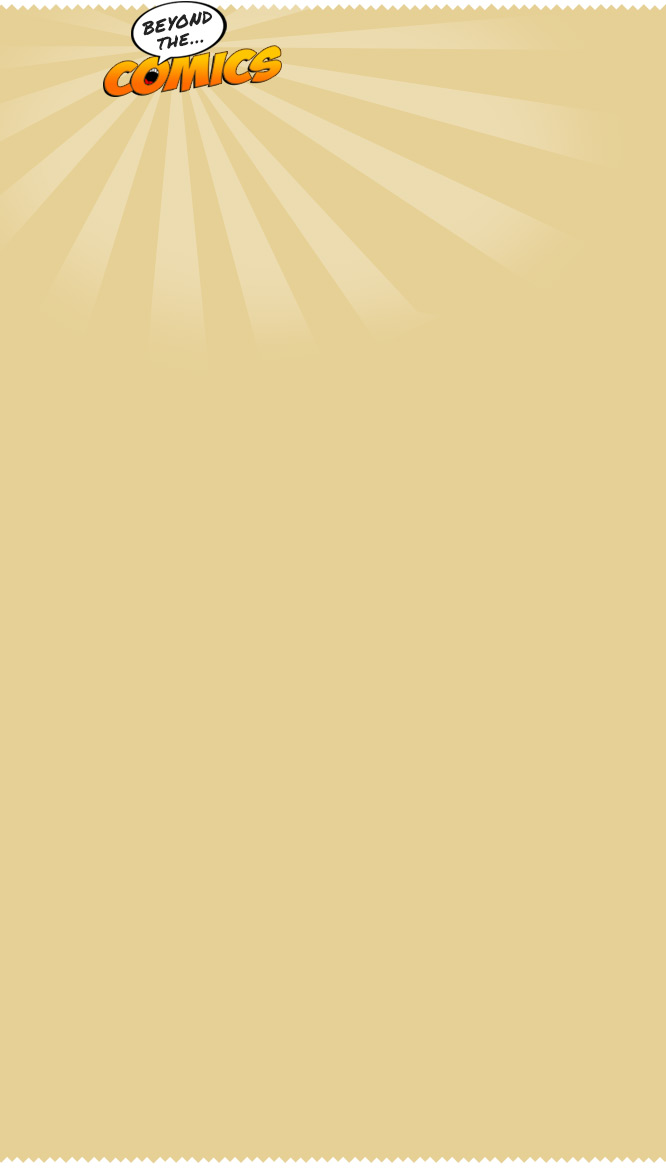
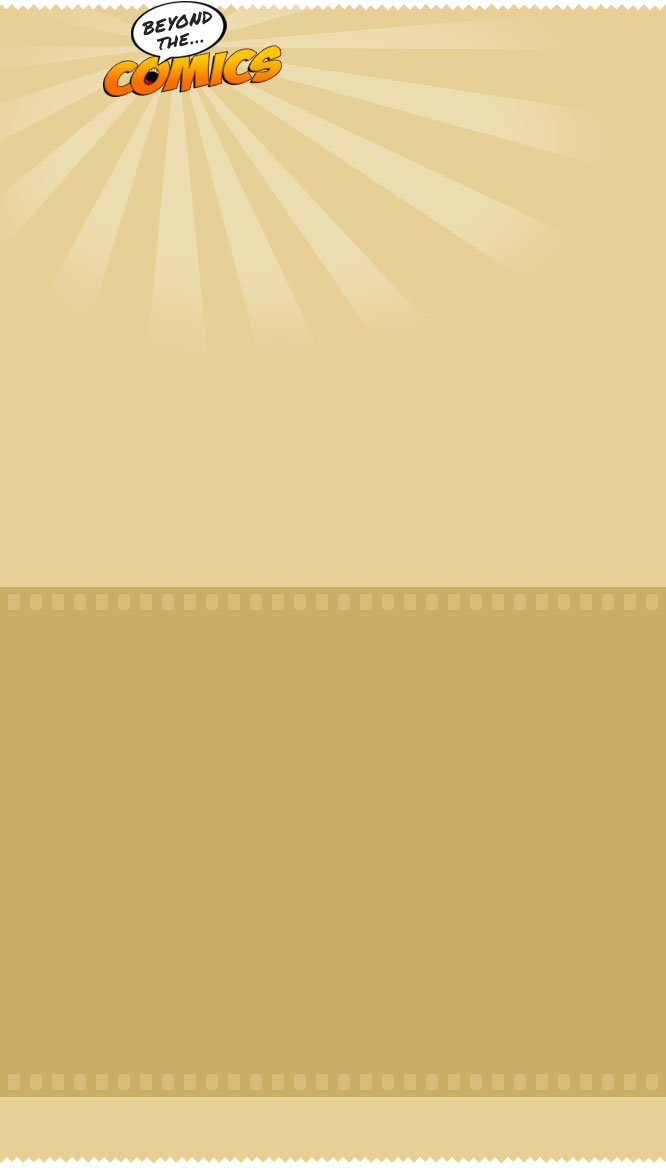
BTC

diff --git a/btc/iframe/css/BTCstyle.css b/btc/iframe/css/BTCstyle.css
@@ -1,0 +1,177 @@
+
+html,body,div,ul,ol,li,dl,dt,dd,h1,h2,h3,h4,h5,h6,pre,form,p,blockquote,fieldset,input,hr {margin:0; padding:0;}
+article, aside, details, figcaption, figure, footer, header, hgroup, nav, section { display: block; }
+audio, canvas, video { display: inline-block; display: inline; zoom: 1; }
+
+body {
+	font-family: Verdana, Arial, Helvetica, sans-serif;
+	margin: 0px;
+	font-size: 12px;
+	font-weight: normal;
+	background-color: #ffffff;
+}
+.container {
+  width: 666px;
+  height: 1168px;
+  background: url("../images/bg.jpg");
+}
+
+/* HEADER
+ */
+
+.container .header {
+  width: 666px;
+  height: 102px;
+}
+
+.container .header .social {
+  width: 666px;
+  height: 25px;
+  float: right;
+  margin-top: 14px;
+}
+
+.container .header .social .follow {
+ float: right;
+  margin-right: 9px;
+  z-index: 5;
+  height: 25px;
+  font-family: 'Permanent Marker';
+  color: #aa9975;
+  font-size: 16px;
+ 
+}
+
+
+.container .header .social .tweeter {
+ float: right;
+  margin-right: 6px;
+  z-index: 5;
+  width: 25px;
+  height: 25px;
+  background-image: url("../images/tweet.png");
+  background-repeat:no-repeat;
+  cursor: pointer;
+}
+
+.container .header .social .fb {
+ float: right;
+  margin-right: 14px;
+  z-index: 5;
+  width: 25px;
+  height: 25px;
+  background-image: url("../images/fb.png");
+  background-repeat:no-repeat;
+  cursor: pointer;
+}
+
+/* TOP VIDEOS */
+
+.container .top {
+  float: left;
+  width: 666px;
+  height: 245px;
+}
+
+.container .top .videoTop{
+  float: left;
+  width: 312px;
+  height: 245px;
+  margin-left: 14px;
+  overflow: hidden;
+}
+
+.container .top .videoTop .picT{
+  float: left;
+  width: 312px;
+  height: 184px;
+  background-color: #fff;
+}
+
+.container .top .videoTop .descT{
+  float: left;
+  padding-left: 12px;
+  width: 300px;
+  height: 61px;
+  font-size: 20px;
+  font-family: 'Permanent Marker';
+  line-height:1.1;
+  background-color: #fff;
+}
+.Torange {
+  color: #ff6600;
+}
+.Tblack {
+  color: #000;
+}
+
+/* MIDDLE VIDEOS */
+
+.container .middle {
+  float: left;
+  margin-top: 14px;
+  width: 666px;
+  height: 207px;
+}
+.container .middle .videoM{
+  float: left;
+  width: 203px;
+  height: 207px;
+  margin-left: 14px;
+  background-color: #fff;
+  font-size: 20px;
+  font-family: 'Permanent Marker';
+  overflow: hidden;
+}
+
+.container .middle .videoM .picM{
+  float: left;
+  width: 203px;
+  height: 136px;
+  background-color: #fff;
+}
+
+.container .middle .videoM .descM{
+  float: left;
+  padding-left: 12px;
+  width: 191px;
+  height: 71px;
+  background-color: #fff;
+  line-height:1.1;
+}
+
+/* BOTTOM VIDEOS */
+
+.container .bottom {
+  float: left;
+  margin-top: 50px;
+  width: 666px;
+  height: 438px;
+}
+.container .bottom .videoB{
+  float: left;
+  width: 203px;
+  height: 207px;
+  margin-left: 14px;
+  margin-bottom: 17px;
+  background-color: #fff;
+  font-size: 20px;
+  overflow: hidden;
+  font-family: 'Permanent Marker';
+}
+
+.container .bottom .videoB .picB{
+  float: left;
+  width: 203px;
+  height: 136px;
+  background-color: #fff;
+}
+
+.container .bottom .videoB .descB{
+  padding-left: 12px;
+  float: left;
+  width: 191px;
+  height: 71px;
+  background-color: #fff;
+  line-height:0.9;
+}

diff --git a/btc/iframe/index.php b/btc/iframe/index.php
@@ -1,0 +1,95 @@
+<?php 
+// getting the top videos
+$topVideos = file_get_contents('http://api.ooyala.com/v2/syndications/2f4b0f9af8e14af89c5226bae424b377/feed?pcode=1ubnYxOoF99_CT3iaac5njeBKs9U');
+$topVideos = preg_replace('/&[^; ]{0,6}.?/e', "((substr('\\0',-1) == ';') ? '\\0' : '&amp;'.substr('\\0',1))", $topVideos);
+$topVideos =simplexml_load_string($topVideos);
+
+$nextVideos = file_get_contents('http://api.ooyala.com/v2/syndications/83389123953649d9965065e2607ff806/feed?pcode=1ubnYxOoF99_CT3iaac5njeBKs9U');
+$nextVideos = preg_replace('/&[^; ]{0,6}.?/e', "((substr('\\0',-1) == ';') ? '\\0' : '&amp;'.substr('\\0',1))", $nextVideos);
+$nextVideos =simplexml_load_string($nextVideos);
+
+//Setting URLs
+$urls=array();
+$urls[0]=array()
+
+// echo "<pre>";
+// print_r($topVideos);
+// print_r($nextVideos);
+// echo "</pre>";
+?>
+<html>
+	<head>
+		<meta http-equiv="Content-Type" content="text/html; charset=UTF-8">
+		<meta http-equiv="Content-Type" content="text/html; charset=iso-8859-1" />
+		<title>BTC</title>
+	</head>
+	<body>
+
+	<!-- begin BTC iframe -->
+		<script src="http://code.jquery.com/jquery-1.10.2.js"></script>
+	    <link rel="stylesheet" type="text/css" href="css/BTCstyle.css" />
+	    <link href='http://fonts.googleapis.com/css?family=Permanent+Marker' rel='stylesheet' type='text/css'>
+		<div class="container">
+			<div class="header">
+				<div class="social">
+					<div class="fb"></div>
+					<div class="tweeter"></div>
+					<div class="follow">Follow</div>
+				</div>
+			</div>
+			<div class="top">
+				<?php for ($i=0; $i<=1; $i++) { ?>
+				<div class="videoTop">
+					<div class="picT">
+						<img src="<?php echo $topVideos->item[$i]->preview; ?>" width="315">
+					</div>
+					<div class="descT">
+						<span class="Torange"><?php echo $topVideos->item[$i]->title; ?></span><br>
+						<span class="Tblack"><?php echo $topVideos->item[$i]->description; ?></span>
+					</div>
+				</div>
+				<?php } ?>
+
+			</div>
+			<div class="middle">
+				<div class="videoM">
+					<div class="picM">
+						<img src="<?php echo $nextVideos->item[0]->preview; ?>" width="220">
+					</div>
+					<div class="descM">
+						<span class="Torange"><?php echo $nextVideos->item[0]->title; ?></span><br>
+						<span class="Tblack"><?php echo $nextVideos->item[0]->description; ?></span>
+					</div>
+				</div>
+				<div class="videoM">
+				</div>
+				<div class="videoM">
+					<div class="picM">
+						<img src="<?php echo $nextVideos->item[1]->preview; ?>" width="220">
+					</div>
+					<div class="descM">
+						<span class="Torange"><?php echo $nextVideos->item[1]->title; ?></span><br>
+						<span class="Tblack"><?php echo $nextVideos->item[1]->description; ?></span>
+					</div>
+				</div>
+			</div>
+			<div class="bottom">
+				<?php for ($i=2; $i<=7; $i++) { ?>
+				<div class="videoB">
+					<div class="picB">
+						<img src="<?php echo $nextVideos->item[$i]->preview; ?>" width="220">
+					</div>
+					<div class="descB">
+						<span class="Torange"><?php echo $nextVideos->item[$i]->title; ?></span><br>
+						<span class="Tblack"><?php echo $nextVideos->item[$i]->description; ?></span>
+					</div>
+				</div>
+				<?php } ?>
+			</div>
+			
+		</div>
+	<!-- End BTC Widget -->
+
+
+	</body>
+</html>
